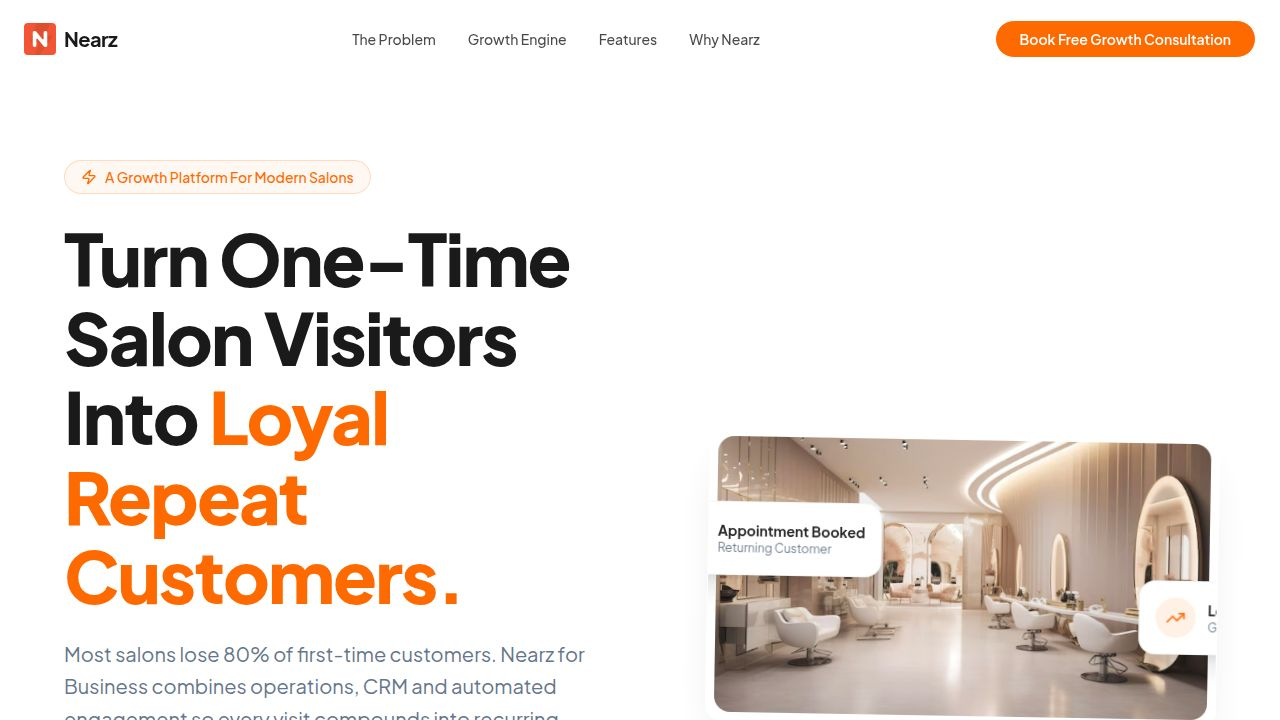
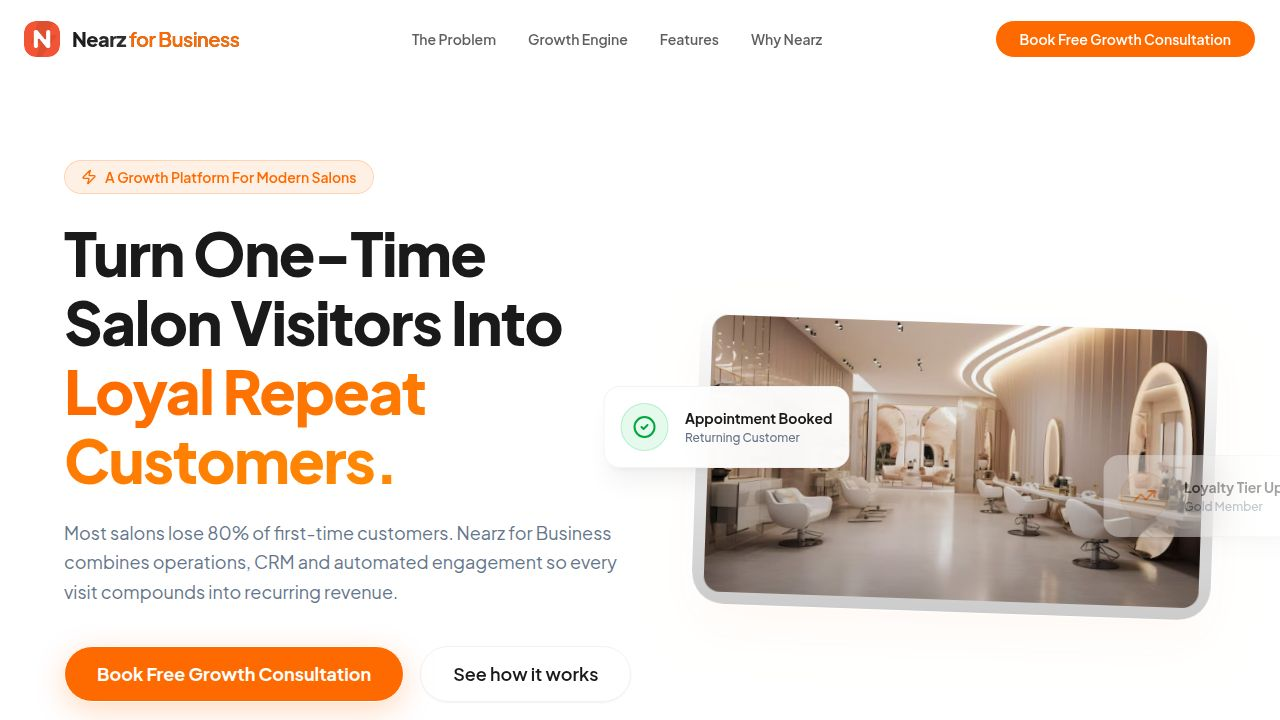
Improve the visual appeal and interactivity of the Nearz business page
Update the Nearz home page component by refining the hero section layout, repositioning hero image elements, reintroducing animations for specific sections like the "Growth Engine" and "Phone Mockup" with new screen cycles, and redesigning the "Everything Needed To Run A Modern Salon" section into a bento-style grid with glassmorphism effects. Also, updated the opengraph image.

Replit-Commit-Author: Agent
Replit-Commit-Session-Id: 0a27b99b-28f2-416c-99ba-3236f01dff6e
Replit-Commit-Checkpoint-Type: full_checkpoint
Replit-Commit-Event-Id: 89acb029-cc04-46cf-b119-92f2d5925c17
Replit-Commit-Screenshot-Url: https://storage.googleapis.com/screenshot-production-us-central1/2d594150-6ecc-4874-850d-5aee2dcef72f/0a27b99b-28f2-416c-99ba-3236f01dff6e/lz9wxwB
Replit-Helium-Checkpoint-Created: true

diff --git a/artifacts/nearz/src/pages/home.tsx b/artifacts/nearz/src/pages/home.tsx
@@ -20,11 +20,10 @@ import {
   Phone,
   Mail,
   Zap,
-  Mouse,
-  ChevronDown,
   Activity,
   BellRing,
-  Award
+  Award,
+  Scissors
 } from "lucide-react";
 
 // Stagger variants
@@ -69,18 +68,11 @@ export default function Home() {
     return () => window.removeEventListener("scroll", handleScroll);
   }, []);
 
-  // Auto-cycle for mockup screens
-  useEffect(() => {
-    const timer = setInterval(() => {
-      setActiveScreen((prev) => (prev + 1) % 4);
-    }, 4000);
-    return () => clearInterval(timer);
-  }, []);
-
   const mockupScreens = [
     {
       title: "Dashboard",
       icon: <Activity className="w-5 h-5 text-primary" />,
+      desc: "Get a bird's-eye view of your salon's daily performance and upcoming appointments.",
       content: (
         <div className="space-y-4">
           <div className="flex gap-4">
@@ -108,8 +100,35 @@ export default function Home() {
       )
     },
     {
-      title: "Customer Engagement",
-      icon: <MessageCircle className="w-5 h-5 text-primary" />,
+      title: "Bookings",
+      icon: <Calendar className="w-5 h-5 text-primary" />,
+      desc: "Manage your calendar, assign staff, and never double-book a slot again.",
+      content: (
+        <div className="space-y-3">
+          {[
+            { time: "10:00 AM", service: "Haircut & Styling", customer: "Rahul S." },
+            { time: "11:30 AM", service: "Facial", customer: "Priya M." },
+            { time: "01:00 PM", service: "Hair Spa", customer: "Anjali K." }
+          ].map((booking, i) => (
+            <motion.div 
+              key={i}
+              initial={{ x: -20, opacity: 0 }}
+              animate={{ x: 0, opacity: 1 }}
+              transition={{ delay: i * 0.15 }}
+              className="p-3 bg-muted/30 rounded-xl border border-border/50"
+            >
+              <div className="text-xs font-bold text-primary mb-1">{booking.time}</div>
+              <div className="font-medium">{booking.service}</div>
+              <div className="text-sm text-muted-foreground">{booking.customer}</div>
+            </motion.div>
+          ))}
+        </div>
+      )
+    },
+    {
+      title: "Customer Mgmt",
+      icon: <Users className="w-5 h-5 text-primary" />,
+      desc: "Rich profiles with visit history, preferences, and automated follow-ups.",
       content: (
         <div className="space-y-3">
           {[1, 2, 3].map((_, i) => (
@@ -127,17 +146,38 @@ export default function Home() {
                 <div className="h-2 w-20 bg-foreground/20 rounded mb-2"></div>
                 <div className="h-1.5 w-32 bg-muted-foreground/20 rounded"></div>
               </div>
-              <div className="w-6 h-6 rounded-full bg-green-500/20 flex items-center justify-center">
-                <CheckCircle2 className="w-3 h-3 text-green-600" />
-              </div>
             </motion.div>
           ))}
         </div>
       )
     },
     {
-      title: "Loyalty & Rewards",
+      title: "Analytics",
+      icon: <BarChart className="w-5 h-5 text-primary" />,
+      desc: "Deep insights into retention rates, staff performance, and top services.",
+      content: (
+        <div className="space-y-4">
+          <div className="p-4 bg-muted/30 rounded-xl border border-border/50">
+            <div className="text-sm font-medium mb-3">Customer Retention</div>
+            <div className="flex items-end h-24 gap-2">
+              {[30, 50, 40, 60, 55, 80].map((h, i) => (
+                <motion.div 
+                  key={i}
+                  className="flex-1 bg-orange-400 rounded-t-sm"
+                  initial={{ height: 0 }}
+                  animate={{ height: `${h}%` }}
+                  transition={{ delay: i * 0.1 }}
+                />
+              ))}
+            </div>
+          </div>
+        </div>
+      )
+    },
+    {
+      title: "Loyalty Program",
       icon: <Award className="w-5 h-5 text-primary" />,
+      desc: "Automated tiers and rewards that incentivize your best customers to return.",
       content: (
         <div className="flex flex-col items-center justify-center py-6 text-center space-y-4">
           <motion.div 
@@ -156,8 +196,34 @@ export default function Home() {
       )
     },
     {
-      title: "Smart Reminders",
-      icon: <BellRing className="w-5 h-5 text-primary" />,
+      title: "Reviews",
+      icon: <Star className="w-5 h-5 text-primary" />,
+      desc: "Automatically request Google reviews from happy customers after checkout.",
+      content: (
+        <div className="space-y-3">
+          {[5, 5, 4].map((rating, i) => (
+            <motion.div 
+              key={i}
+              initial={{ opacity: 0, y: 10 }}
+              animate={{ opacity: 1, y: 0 }}
+              transition={{ delay: i * 0.2 }}
+              className="p-3 bg-muted/30 rounded-xl border border-border/50"
+            >
+              <div className="flex gap-1 mb-2">
+                {[1, 2, 3, 4, 5].map(star => (
+                  <Star key={star} className={`w-3 h-3 ${star <= rating ? 'fill-yellow-400 text-yellow-400' : 'text-muted'}`} />
+                ))}
+              </div>
+              <div className="text-sm font-medium">"Amazing service, highly recommended!"</div>
+            </motion.div>
+          ))}
+        </div>
+      )
+    },
+    {
+      title: "Promotions",
+      icon: <Gift className="w-5 h-5 text-primary" />,
+      desc: "Targeted SMS and WhatsApp campaigns that fill your empty slots.",
       content: (
         <div className="space-y-4">
           <div className="p-4 bg-primary/5 rounded-xl border border-primary/20 relative overflow-hidden">
@@ -185,6 +251,14 @@ export default function Home() {
       )
     }
   ];
+
+  // Auto-cycle for mockup screens
+  useEffect(() => {
+    const timer = setInterval(() => {
+      setActiveScreen((prev) => (prev + 1) % mockupScreens.length);
+    }, 2000);
+    return () => clearInterval(timer);
+  }, [mockupScreens.length]);
 
   return (
     <div className="min-h-screen bg-background text-foreground overflow-x-hidden font-sans selection:bg-primary/20 selection:text-primary">
@@ -233,25 +307,25 @@ export default function Home() {
 
       <main>
         {/* 2. Hero */}
-        <section className="pt-32 pb-20 md:pt-40 md:pb-32 px-4 relative min-h-[90vh] flex items-center">
+        <section className="pt-32 pb-16 md:pt-40 md:pb-24 px-4 relative min-h-[90vh] flex items-center">
           <div className="container mx-auto max-w-6xl relative z-10">
-            <div className="flex flex-col lg:flex-row items-center gap-12 lg:gap-24">
+            <div className="flex flex-col lg:flex-row items-center gap-12 lg:gap-16">
               <motion.div 
                 initial={{ opacity: 0, y: 30 }}
                 animate={{ opacity: 1, y: 0 }}
                 transition={{ duration: 0.8, ease: "easeOut" }}
                 className="flex-1 text-center lg:text-left"
               >
-                <Badge variant="outline" className="mb-8 border-primary/20 bg-primary/10 text-primary px-4 py-1.5 rounded-full font-semibold text-sm backdrop-blur-sm">
+                <Badge variant="outline" className="mb-6 border-primary/20 bg-primary/10 text-primary px-4 py-1.5 rounded-full font-semibold text-sm backdrop-blur-sm">
                   <Zap className="w-4 h-4 mr-2 inline" />
                   A Growth Platform For Modern Salons
                 </Badge>
                 
-                <h1 className="text-5xl lg:text-7xl font-extrabold tracking-tight text-foreground leading-[1.1] mb-6">
+                <h1 className="text-4xl sm:text-5xl lg:text-6xl font-extrabold tracking-tight text-foreground leading-[1.15] mb-6 max-w-[15ch] mx-auto lg:mx-0">
                   Turn One-Time Salon Visitors Into <span className="text-transparent bg-clip-text bg-gradient-to-r from-primary to-orange-400">Loyal Repeat Customers.</span>
                 </h1>
                 
-                <p className="text-lg lg:text-xl text-muted-foreground mb-10 max-w-2xl mx-auto lg:mx-0 leading-relaxed">
+                <p className="text-base sm:text-lg text-muted-foreground mb-10 max-w-xl mx-auto lg:mx-0 leading-relaxed">
                   Most salons lose 80% of first-time customers. Nearz for Business combines operations, CRM and automated engagement so every visit compounds into recurring revenue.
                 </p>
                 
@@ -279,7 +353,7 @@ export default function Home() {
 
               <motion.div 
                 style={{ y: heroY }}
-                className="flex-1 relative w-full max-w-lg lg:max-w-none mx-auto lg:-mt-12"
+                className="flex-1 relative w-full max-w-lg lg:max-w-none mx-auto lg:-mt-20"
               >
                 <motion.div 
                   animate={{ y: [0, -10, 0] }}
@@ -295,7 +369,7 @@ export default function Home() {
                   initial={{ opacity: 0, x: -50 }}
                   animate={{ opacity: 1, x: 0 }}
                   transition={{ delay: 0.6, type: "spring" }}
-                  className="absolute -left-12 lg:-left-20 top-1/4 bg-background/95 backdrop-blur-xl rounded-2xl shadow-xl shadow-black/5 p-4 border border-border/50 flex items-center gap-4 z-20"
+                  className="absolute -left-6 lg:-left-24 top-10 lg:top-1/4 bg-background/95 backdrop-blur-xl rounded-2xl shadow-xl shadow-black/5 p-4 border border-border/50 flex items-center gap-4 z-20"
                 >
                   <div className="w-12 h-12 rounded-full bg-green-500/10 flex items-center justify-center text-green-600 border border-green-500/20">
                     <CheckCircle2 className="w-6 h-6" />
@@ -310,7 +384,7 @@ export default function Home() {
                   initial={{ opacity: 0, x: 50 }}
                   animate={{ opacity: 1, x: 0 }}
                   transition={{ delay: 0.8, type: "spring" }}
-                  className="absolute -right-8 lg:-right-16 bottom-1/3 bg-background/95 backdrop-blur-xl rounded-2xl shadow-xl shadow-black/5 p-4 border border-border/50 flex items-center gap-4 z-20"
+                  className="absolute -right-6 lg:-right-24 bottom-16 lg:bottom-1/4 bg-background/95 backdrop-blur-xl rounded-2xl shadow-xl shadow-black/5 p-4 border border-border/50 flex items-center gap-4 z-20"
                 >
                   <div className="w-12 h-12 rounded-full bg-primary/10 flex items-center justify-center text-primary border border-primary/20">
                     <TrendingUp className="w-6 h-6" />
@@ -453,7 +527,7 @@ export default function Home() {
                   className="w-full bg-primary"
                   initial={{ height: "0%" }}
                   whileInView={{ height: "100%" }}
-                  viewport={{ once: true }}
+                  viewport={{ once: false }}
                   transition={{ duration: 2, ease: "easeInOut" }}
                 />
               </div>
@@ -467,7 +541,7 @@ export default function Home() {
                 <motion.div 
                   initial={{ opacity: 0, x: -30 }}
                   whileInView={{ opacity: 1, x: 0 }}
-                  viewport={{ once: true, margin: "-50px" }}
+                  viewport={{ once: false, margin: "-50px" }}
                   transition={{ delay: i * 0.2 }}
                   key={i} 
                   className="relative flex flex-col md:flex-row gap-6 md:gap-12 bg-card border border-border shadow-sm p-8 rounded-3xl hover:shadow-xl hover:border-primary/30 transition-all duration-300 group"
@@ -505,18 +579,13 @@ export default function Home() {
 
             <div className="grid lg:grid-cols-12 gap-12 lg:gap-8 items-center">
               {/* Feature List */}
-              <div className="lg:col-span-5 space-y-4 order-2 lg:order-1">
-                {[
-                  { num: "01", title: "Manage Operations", icon: <Calendar className="w-6 h-6" />, desc: "Billing, appointments, packages, and staff — all in one place." },
-                  { num: "02", title: "Engage Customers", icon: <MessageCircle className="w-6 h-6" />, desc: "Automated WhatsApp & SMS campaigns that reach customers perfectly." },
-                  { num: "03", title: "Drive Repeat Visits", icon: <ArrowRight className="w-6 h-6" />, desc: "Smart reminders and personalized offers that bring customers back." },
-                  { num: "04", title: "Increase Lifetime Value", icon: <TrendingUp className="w-6 h-6" />, desc: "Every repeat visit and referral adds up. Maximize customer worth." }
-                ].map((pillar, i) => (
+              <div className="lg:col-span-6 space-y-4 order-2 lg:order-1 h-[600px] overflow-y-auto pr-4 scrollbar-hide">
+                {mockupScreens.map((screen, i) => (
                   <div 
                     key={i} 
                     className={`p-6 rounded-2xl border transition-all duration-500 cursor-pointer ${
                       activeScreen === i 
-                        ? "bg-white shadow-lg border-primary/20 scale-105" 
+                        ? "bg-white shadow-lg border-primary/20 scale-[1.02]" 
                         : "bg-transparent border-transparent hover:bg-white/50 opacity-60 hover:opacity-100"
                     }`}
                     onClick={() => setActiveScreen(i)}
@@ -525,9 +594,9 @@ export default function Home() {
                       <div className={`w-10 h-10 rounded-xl flex items-center justify-center transition-colors ${
                         activeScreen === i ? "bg-primary/10 text-primary" : "bg-muted text-muted-foreground"
                       }`}>
-                        {pillar.icon}
+                        {screen.icon}
                       </div>
-                      <h3 className="text-xl font-bold">{pillar.title}</h3>
+                      <h3 className="text-xl font-bold">{screen.title}</h3>
                     </div>
                     <AnimatePresence>
                       {activeScreen === i && (
@@ -537,7 +606,7 @@ export default function Home() {
                           exit={{ height: 0, opacity: 0 }}
                           className="text-muted-foreground font-medium pl-14 leading-relaxed"
                         >
-                          {pillar.desc}
+                          {screen.desc}
                         </motion.p>
                       )}
                     </AnimatePresence>
@@ -546,12 +615,12 @@ export default function Home() {
               </div>
 
               {/* Device Mockup */}
-              <div className="lg:col-span-7 order-1 lg:order-2 relative">
+              <div className="lg:col-span-6 order-1 lg:order-2 relative">
                 <div className="absolute inset-0 bg-primary/20 blur-[100px] rounded-full"></div>
                 <motion.div 
                   animate={{ y: [0, -15, 0] }}
                   transition={{ duration: 6, repeat: Infinity, ease: "easeInOut" }}
-                  className="relative mx-auto max-w-[320px] aspect-[1/2] rounded-[3rem] border-[12px] border-foreground bg-background shadow-2xl shadow-primary/20 overflow-hidden"
+                  className="relative mx-auto max-w-[320px] aspect-[1/2] rounded-[3rem] border-[12px] border-foreground bg-background shadow-[0_0_50px_rgba(255,106,0,0.25)] overflow-hidden"
                 >
                   {/* Phone Notch */}
                   <div className="absolute top-0 inset-x-0 h-6 bg-foreground rounded-b-3xl w-1/2 mx-auto z-50"></div>
@@ -573,6 +642,7 @@ export default function Home() {
                         initial={{ opacity: 0, y: 10 }}
                         animate={{ opacity: 1, y: 0 }}
                         exit={{ opacity: 0, y: -10 }}
+                        transition={{ duration: 0.2 }}
                         className="flex items-center gap-2 font-semibold text-lg"
                       >
                         {mockupScreens[activeScreen].icon}
@@ -582,7 +652,7 @@ export default function Home() {
                   </div>
 
                   {/* App Content Area */}
-                  <div className="p-6 h-full overflow-y-auto bg-muted/20">
+                  <div className="p-6 h-full overflow-y-auto bg-muted/20 pb-32">
                     <AnimatePresence mode="wait">
                       <motion.div
                         key={activeScreen}
@@ -735,7 +805,7 @@ export default function Home() {
           </div>
         </section>
 
-        {/* 9. Full Toolkit */}
+        {/* 9. Full Toolkit (Bento Grid) */}
         <section className="py-32 bg-muted/30">
           <div className="container mx-auto px-4 max-w-7xl">
             <div className="text-center mb-20">
@@ -743,18 +813,18 @@ export default function Home() {
               <h2 className="text-4xl md:text-6xl font-extrabold mt-4">Everything Needed To Run A Modern Salon.</h2>
             </div>
 
-            <div className="grid grid-cols-1 sm:grid-cols-2 lg:grid-cols-5 gap-6">
+            <div className="grid grid-cols-1 sm:grid-cols-2 lg:grid-cols-3 xl:grid-cols-4 gap-6 auto-rows-[220px]">
               {[
-                { name: "Billing", desc: "Fast, accurate invoicing at the point of sale", icon: <Zap className="w-6 h-6" /> },
-                { name: "CRM", desc: "Rich customer profiles that power retention", icon: <Users className="w-6 h-6" /> },
-                { name: "Appointments", desc: "Seamless booking and schedule management", icon: <Calendar className="w-6 h-6" /> },
-                { name: "Packages", desc: "Pre-paid service bundles to lock in revenue", icon: <Gift className="w-6 h-6" /> },
-                { name: "Loyalty", desc: "Points, rewards, and tiers that keep customers coming back", icon: <Star className="w-6 h-6" /> },
-                { name: "Marketing", desc: "WhatsApp, SMS, and email campaigns on autopilot", icon: <MessageCircle className="w-6 h-6" /> },
-                { name: "Feedback", desc: "Post-visit surveys to improve service quality", icon: <MessageCircle className="w-6 h-6" /> },
-                { name: "Reviews", desc: "Automated Google review collection at scale", icon: <Star className="w-6 h-6" /> },
-                { name: "Reports", desc: "Actionable insights into revenue and retention", icon: <BarChart className="w-6 h-6" /> },
-                { name: "Mobile App", desc: "Run your salon from anywhere, anytime", icon: <Smartphone className="w-6 h-6" /> }
+                { name: "Billing", desc: "Fast, accurate invoicing at the point of sale", icon: <Zap className="w-8 h-8" />, span: "col-span-1 sm:col-span-2 lg:col-span-1 row-span-1" },
+                { name: "CRM", desc: "Rich customer profiles that power retention", icon: <Users className="w-8 h-8" />, span: "col-span-1 row-span-2" },
+                { name: "Appointments", desc: "Seamless booking and schedule management", icon: <Calendar className="w-8 h-8" />, span: "col-span-1 sm:col-span-2 row-span-1 lg:col-span-1 lg:row-span-1" },
+                { name: "Packages", desc: "Pre-paid service bundles to lock in revenue", icon: <Gift className="w-8 h-8" />, span: "col-span-1 row-span-1" },
+                { name: "Loyalty", desc: "Points, rewards, and tiers that keep customers coming back", icon: <Star className="w-8 h-8" />, span: "col-span-1 sm:col-span-2 row-span-1" },
+                { name: "Marketing", desc: "WhatsApp, SMS, and email campaigns on autopilot", icon: <MessageCircle className="w-8 h-8" />, span: "col-span-1 lg:col-span-2 row-span-1" },
+                { name: "Feedback", desc: "Post-visit surveys to improve service quality", icon: <Scissors className="w-8 h-8" />, span: "col-span-1 row-span-1" },
+                { name: "Reviews", desc: "Automated Google review collection at scale", icon: <Star className="w-8 h-8" />, span: "col-span-1 row-span-1" },
+                { name: "Reports", desc: "Actionable insights into revenue and retention", icon: <BarChart className="w-8 h-8" />, span: "col-span-1 sm:col-span-2 lg:col-span-1 row-span-2" },
+                { name: "Mobile App", desc: "Run your salon from anywhere, anytime", icon: <Smartphone className="w-8 h-8" />, span: "col-span-1 sm:col-span-2 lg:col-span-2 row-span-1" }
               ].map((tool, i) => (
                 <motion.div 
                   initial={{ opacity: 0, y: 20 }}
@@ -762,15 +832,18 @@ export default function Home() {
                   viewport={{ once: true }}
                   transition={{ delay: i * 0.05 }}
                   key={i} 
-                  className="p-8 rounded-[2rem] bg-background border border-border/50 hover:border-primary/30 hover:shadow-xl hover:-translate-y-1 transition-all duration-300 flex flex-col h-full group"
+                  className={`relative p-8 rounded-3xl overflow-hidden group ${tool.span} bg-white/50 backdrop-blur-xl border border-white hover:border-primary/20 hover:shadow-2xl hover:shadow-primary/5 hover:-translate-y-1 transition-all duration-300 flex flex-col`}
                 >
-                  <div className="w-12 h-12 rounded-xl bg-muted/50 text-muted-foreground flex items-center justify-center mb-6 group-hover:bg-primary/10 group-hover:text-primary transition-colors">
+                  <div className="absolute inset-0 bg-gradient-to-br from-primary/5 to-transparent opacity-0 group-hover:opacity-100 transition-opacity duration-500 pointer-events-none"></div>
+                  <div className="w-14 h-14 rounded-2xl bg-gradient-to-br from-white to-muted text-foreground flex items-center justify-center mb-auto shadow-sm border border-border/50 group-hover:from-primary/20 group-hover:to-primary/5 group-hover:text-primary transition-all duration-300 group-hover:scale-110 z-10">
                     {tool.icon}
                   </div>
-                  <h3 className="font-bold text-xl mb-3 text-foreground">
-                    {tool.name}
-                  </h3>
-                  <p className="text-muted-foreground font-medium leading-relaxed mt-auto">{tool.desc}</p>
+                  <div className="relative z-10 mt-6">
+                    <h3 className="font-extrabold text-2xl mb-2 text-foreground group-hover:text-primary transition-colors">
+                      {tool.name}
+                    </h3>
+                    <p className="text-muted-foreground font-medium leading-relaxed">{tool.desc}</p>
+                  </div>
                 </motion.div>
               ))}
             </div>